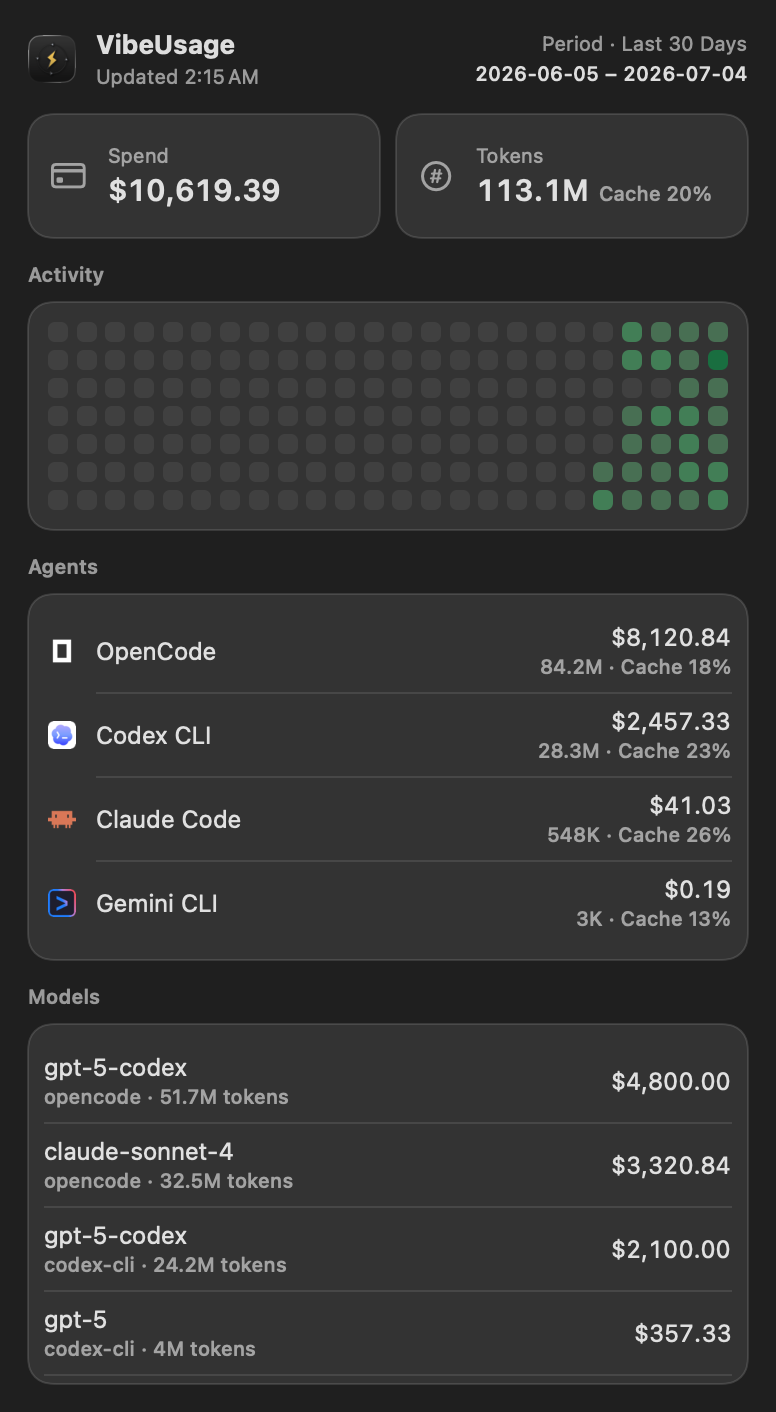
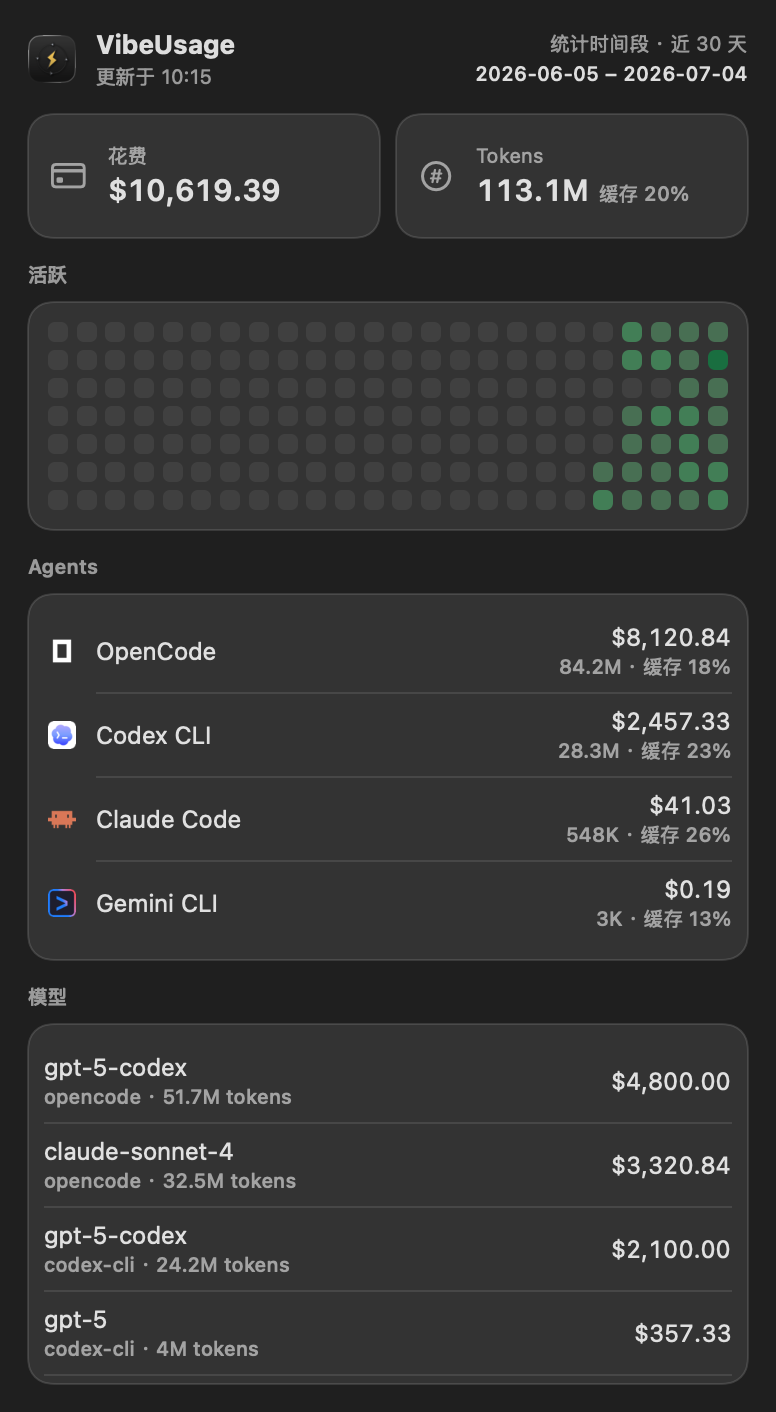
Show remaining Claude and Codex quota

diff --git a/Sources/VibeUsageUI/Shared/QuotaViews.swift b/Sources/VibeUsageUI/Shared/QuotaViews.swift
@@ -171,8 +171,8 @@ struct SubscriptionTierBadge: View {
     }
 }
 
-/// A single window's thin progress bar with trailing "87% · 3h12m" text,
-/// tinted by utilization (green < 70%, amber 70-90%, red > 90%).
+/// A single window's remaining quota bar with trailing "87% remaining" text
+/// and a reset countdown. Warns at <= 30% remaining (amber) and <= 10% (red).
 struct QuotaWindowBar: View {
     let window: QuotaWindow
     @Environment(\.menuBarExportMode) private var isExporting
@@ -186,10 +186,11 @@ struct QuotaWindowBar: View {
     }
 
     private var trailingText: String {
+        let remaining = QuotaUIStrings.remaining(window.remainingPercentText)
         if let countdown = window.resetCountdownText {
-            return "\(window.usedPercentText) · \(countdown)"
+            return "\(remaining) · \(countdown)"
         }
-        return window.usedPercentText
+        return remaining
     }
 
     var body: some View {
@@ -221,19 +222,19 @@ struct QuotaWindowBar: View {
                         .fill(Color.secondary.opacity(0.16))
                     Capsule()
                         .fill(tint)
-                        .frame(width: proxy.size.width * CGFloat(window.usedFraction))
+                        .frame(width: proxy.size.width * CGFloat(window.remainingFraction))
                 }
             }
             .frame(height: 4)
         } else {
-            ProgressView(value: window.usedFraction)
+            ProgressView(value: window.remainingFraction)
                 .progressViewStyle(.linear)
                 .tint(tint)
         }
     }
 }
 
-/// Bilingual strings for non-ok quota states, kept alongside the view since
+/// Bilingual strings for quota display, kept alongside the view since
 /// they're only ever used here.
 enum QuotaUIStrings {
     static let sectionTitle = UIStrings.text(zh: "限额", en: "Limits")
@@ -249,6 +250,10 @@ enum QuotaUIStrings {
     static let disabled = UIStrings.text(zh: "已关闭", en: "Disabled")
     static let disconnect = UIStrings.text(zh: "断开连接", en: "Disconnect")
     static let waitingForBrowser = UIStrings.text(zh: "等待浏览器授权…", en: "Waiting for browser authorization…")
+
+    static func remaining(_ percent: String) -> String {
+        UIStrings.text(zh: "剩余 \(percent)", en: "\(percent) remaining")
+    }
 
     static func connectLabel(for sourceID: AgentSourceID) -> String {
         switch sourceID {

diff --git a/Tests/VibeUsageQuotaTests/ClaudeQuotaProviderTests.swift b/Tests/VibeUsageQuotaTests/ClaudeQuotaProviderTests.swift
@@ -20,10 +20,13 @@ import Testing
         let fiveHour = try #require(windows.first { $0.id == "five_hour" })
         #expect(fiveHour.usedPercentText == "60%")
         #expect(abs(fiveHour.usedFraction - 0.60) < 0.0001)
+        #expect(abs(fiveHour.remainingFraction - 0.40) < 0.0001)
+        #expect(fiveHour.remainingPercentText == "40%")
         #expect(fiveHour.resetsAt != nil)
 
         let sevenDay = try #require(windows.first { $0.id == "seven_day" })
         #expect(sevenDay.usedPercentText == "31%")
+        #expect(sevenDay.remainingPercentText == "69%")
     }
 
     @Test func parsesUsedAndLimitRatioStyleWindows() throws {
@@ -56,6 +59,8 @@ import Testing
         #expect(windows[0].id == "five_hour")
         #expect(windows[0].usedFraction == 1.0)
         #expect(windows[0].usedPercentText == "100%")
+        #expect(windows[0].remainingFraction == 0)
+        #expect(windows[0].remainingPercentText == "0%")
     }
 
     @Test func windowsWithoutRecognizableUsageFieldsAreSkipped() throws {

diff --git a/Tests/VibeUsageQuotaTests/QuotaFormattingTests.swift b/Tests/VibeUsageQuotaTests/QuotaFormattingTests.swift
@@ -15,6 +15,18 @@ import Testing
         #expect(QuotaFormatting.percentText(usedFraction: -0.2) == "0%")
     }
 
+    @Test func remainingPercentTextConvertsBeforeRounding() {
+        #expect(QuotaFormatting.remainingPercentText(usedFraction: 0.874) == "13%")
+        #expect(QuotaFormatting.remainingPercentText(usedFraction: 0.876) == "12%")
+        #expect(QuotaFormatting.remainingPercentText(usedFraction: 0) == "100%")
+        #expect(QuotaFormatting.remainingPercentText(usedFraction: 1) == "0%")
+    }
+
+    @Test func remainingPercentTextClampsOutOfRangeFractions() {
+        #expect(QuotaFormatting.remainingPercentText(usedFraction: 1.5) == "0%")
+        #expect(QuotaFormatting.remainingPercentText(usedFraction: -0.2) == "100%")
+    }
+
     @Test func countdownTextReturnsNilForPastOrNilDates() {
         let now = Date(timeIntervalSince1970: 1_800_000_000)
         #expect(QuotaFormatting.countdownText(resetsAt: nil, now: now) == nil)

diff --git a/Tests/VibeUsageQuotaTests/CodexQuotaProviderTests.swift b/Tests/VibeUsageQuotaTests/CodexQuotaProviderTests.swift
@@ -20,8 +20,11 @@ import Testing
         #expect(windows.count == 2)
         let primary = try #require(windows.first { $0.id == "primary_window" })
         #expect(primary.usedPercentText == "45%")
+        #expect(abs(primary.remainingFraction - 0.55) < 0.0001)
+        #expect(primary.remainingPercentText == "55%")
         let secondary = try #require(windows.first { $0.id == "secondary_window" })
         #expect(secondary.usedPercentText == "88%")
+        #expect(secondary.remainingPercentText == "12%")
     }
 
     @Test func missingRateLimitObjectProducesNoWindows() throws {

diff --git a/Sources/VibeUsageQuota/QuotaFormatting.swift b/Sources/VibeUsageQuota/QuotaFormatting.swift
@@ -12,6 +12,11 @@ public enum QuotaFormatting {
         return "\(percent)%"
     }
 
+    /// Integer percent of quota still available, e.g. 60% used becomes "40%".
+    public static func remainingPercentText(usedFraction: Double) -> String {
+        percentText(usedFraction: 1 - min(max(usedFraction, 0), 1))
+    }
+
     /// Relative countdown text to `resetsAt` from `now`, e.g. zh "3小时12分后重置"
     /// / en "resets in 3h 12m". Returns nil once the reset time has passed
     /// (the caller's next fetch is expected to supersede it).

diff --git a/Sources/VibeUsageQuota/DTOs/QuotaSnapshot.swift b/Sources/VibeUsageQuota/DTOs/QuotaSnapshot.swift
@@ -14,6 +14,13 @@ public struct QuotaWindow: Sendable, Equatable, Identifiable {
     public let resetsAt: Date?
     public let resetCountdownText: String?
 
+    /// Fraction of the window's quota still available, clamped to `0...1`.
+    public var remainingFraction: Double { 1 - usedFraction }
+
+    public var remainingPercentText: String {
+        QuotaFormatting.remainingPercentText(usedFraction: usedFraction)
+    }
+
     public init(
         id: String,
         label: String,
